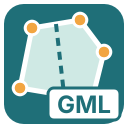
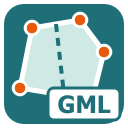
Icono con vértices en rojo coral para una imagen propia

diff --git a/core/apartados.py b/core/apartados.py
@@ -16,12 +16,15 @@ ESTILO = """
   nav.indice { border:1px solid var(--linea); border-radius:8px; padding:10px 16px; background:var(--suave);
                margin:16px 0 8px; font-size:.93em; }
   nav.indice b { display:block; margin-bottom:4px; color:var(--acento); }
-  nav.indice a { color:var(--acento); text-decoration:none; margin-right:18px; white-space:nowrap; }
+  nav.indice div { display:flex; flex-wrap:wrap; gap:4px 18px; }
+  nav.indice a { color:var(--acento); text-decoration:none; }
   nav.indice a:hover { text-decoration:underline; }
   h2.apartado { border-bottom:3px solid var(--acento); padding-bottom:6px; margin-top:40px; text-transform:uppercase;
                 letter-spacing:.6px; font-size:1.02em; }
   h2.apartado .num { color:#fff; background:var(--acento); padding:1px 8px; border-radius:4px; margin-right:10px; }
   @media print { h2.apartado { break-after:avoid; } }
+  /* Móvil: las tablas anchas se desplazan de lado sin ensanchar la página (prueba a mano del 20/11/2026) */
+  @media (max-width: 700px) { table { display:block; overflow-x:auto; } .grafico, .croquis { max-width:100%; } }
 """
 
 _H2 = re.compile(r'<h2>(.*?)</h2>', re.S)
@@ -42,7 +45,7 @@ def numerar(texto):
     if len(titulos) >= MINIMO_INDICE:
         enlaces = ''.join(f'<a href="#apartado-{n}">{n}. {re.sub(r"<[^>]+>", "", t).strip()}</a>'
                           for n, t in enumerate(titulos, 1))
-        indice = f'<nav class="indice"><b>Contenido</b>{enlaces}</nav>\n'
+        indice = f'<nav class="indice"><b>Contenido</b><div>{enlaces}</div></nav>\n'
         posicion = numerado.find('<h2 id="apartado-1"')
         numerado = numerado[:posicion] + indice + numerado[posicion:]
     return numerado.replace('</style>', ESTILO + '</style>', 1)

diff --git a/core/comparar_gml.py b/core/comparar_gml.py
@@ -651,7 +651,7 @@ def html(c, ahora=None):
 de centímetros no se aprecian en el croquis: están en las tablas.</p>
 {''.join(secciones) or '<p>No hay recintos en los dos ficheros.</p>'}
 <footer>Generado con {escape(NOMBRE)} {escape(version())} (herramienta no oficial, GPL-2.0-or-later) a partir de
-<code>{escape(c.ruta_a)}</code> y <code>{escape(c.ruta_b)}</code>.</footer>
+<code>{escape(os.path.basename(c.ruta_a))}</code> y <code>{escape(os.path.basename(c.ruta_b))}</code>.</footer>
 </body>
 </html>
 """)

diff --git a/core/informe.py b/core/informe.py
@@ -444,7 +444,7 @@ informe de validación gráfica ni al ICUC de la Sede Electrónica del Catastro.
 {detalle or '<p>Sin geometrías.</p>'}
 
 <footer>Generado con {escape(NOMBRE)} {escape(version())} (herramienta no oficial, GPL-2.0-or-later) a partir del fichero
-<code>{escape(informe.ruta)}</code>.</footer>
+<code>{escape(os.path.basename(informe.ruta))}</code>.</footer>
 </body>
 </html>
 """)

diff --git a/core/superficies.py b/core/superficies.py
@@ -387,7 +387,7 @@ los números de los vértices son los del croquis de cada parcela (en él se omi
 {detalle}
 
 <footer>Generado con {escape(NOMBRE)} {escape(version())} (herramienta no oficial, GPL-2.0-or-later) a partir del fichero
-<code>{escape(ruta_gml)}</code>.</footer>
+<code>{escape(os.path.basename(ruta_gml))}</code>.</footer>
 </body>
 </html>
 """)

diff --git a/CHANGELOG.md b/CHANGELOG.md
@@ -12,6 +12,8 @@ Formato basado en [Keep a Changelog](https://keepachangelog.com/es-ES/1.1.0/). V
 - **Un edificio con varios cuerpos (multirrecinto)** en la pestaña Edificio (petición del 19/11/2026): cada fila de edificio de la tabla era un edificio distinto para la Sede, así que dos cuerpos separados de un mismo edificio (dos volúmenes unidos por un porche, una nave con su anexo) dibujados o traídos de un DXF como dos polígonos salían como `RC_Edificio_1` y `RC_Edificio_2`, y la Sede daba de alta dos edificios (luego hay que corregirlo con otro modelo 902). Ahora **Mismo edificio** junta las filas elegidas en un solo edificio con un `PolygonPatch` por cuerpo, con las plantas del mayor y sin tocar la capa, y **Separar** lo deshace; al elegir el edificio juntado se seleccionan en el mapa todos sus cuerpos. Con dos o más edificios, el resumen bajo la tabla y Validar (`BU-VARIOS-EDIFICIOS`, informativo) lo recuerdan con la regla práctica: si al derribar un cuerpo se cambiaría el mismo modelo 902, es el mismo edificio. La capa de «Dibujar huellas» pasa a MultiPolygon, para poder añadir otro cuerpo con «Añadir parte». Lo descargado del Catastro ya venía bien (un edificio con todos sus cuerpos). Al juntar, el edificio lleva las plantas del cuerpo más alto aunque solo estén escritas en la tabla, y al separar cada cuerpo recupera las suyas (prueba a mano del 20/11/2026). Prueba nueva `edificio_multirrecinto_test.py` (29 comprobaciones).
 
 ### Cambiado
+- **Icono**: los vértices de la parcela pasan de ámbar a **rojo coral** (#e8590c), para que el icono tenga una imagen propia (petición del 20/11/2026).
+- Los informes HTML se leen bien en el **móvil** (el índice salta de línea y las tablas anchas se desplazan de lado sin ensanchar la página) y al pie llevan solo el **nombre del GML**, no su ruta completa (`C:\Users\…`), que no aporta en un informe que se entrega (prueba a mano del 20/11/2026).
 - Los informes HTML usan **punto de miles** (1.475,00), como el panel; antes, un espacio (prueba a mano del 20/11/2026). Los CSV no cambian.
 - **«Doble GML»** (petición del 19/11/2026): la utilidad «2. Ajustar a la cartografía catastral (desplazada o girada)» pasa a llamarse **«2. Doble GML (cartografía desplazada o girada)»**, con la explicación al pasar el ratón (un GML del levantamiento, otro ajustado a la cartografía catastral y los parámetros); el mensaje final dice «Doble GML listo» y qué se aporta, con las dos normas: Resoluciones conjuntas de 23/09/2020 (Registro, apartado séptimo) y de 29/03/2021 (notarías, apartado octavo). La ayuda explica el procedimiento y cuándo se da el caso (Validar indica que con un desplazamiento entraría en el margen de identidad).
 
